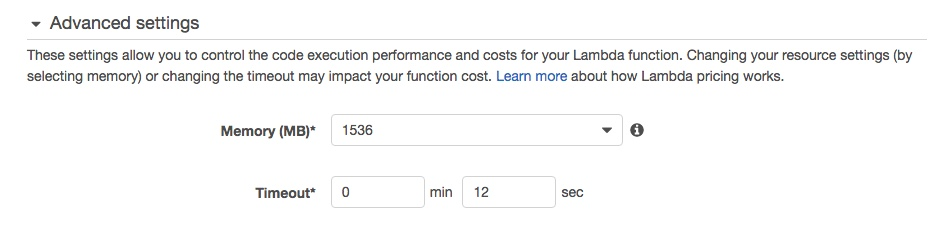
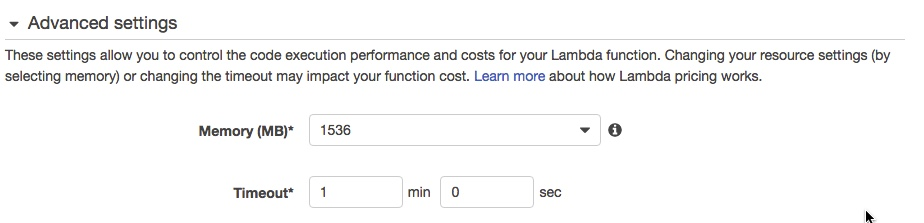
readme

diff --git a/README.md b/README.md
@@ -122,11 +122,11 @@ These instructions are modified from  tartan_guru's Google Assiatnt skill (https
 
 ![alt text](screenshots/existing_role.jpeg)
 
-12. Under Advanced Settings set Memory (MB) to 1536 and change the Timeout to 12 seconds
+12. Under Advanced Settings set Memory (MB) to 1536 and change the Timeout to 1 minute 0 seconds
 
 ![alt text](screenshots/advanced_settings.jpeg)
 
-13. Click on the blue "Next" at the bottom of the page and review the settings then click "Create Function". This will upload the Archive.zip file to Lambda. This may take a number of minutes depending on your connection speed. **NOTE - If the creation process takes more than five minutes or produces an error similar to "Signature expired: 20170612T135832Z is now earlier than 20170612T142721Z (20170612T143221Z - 5 min.)" then this is due to having a slow internet upload speed.  You'll need to upload the zip file via S3 instead. Go here:- https://console.aws.amazon.com/s3/home. Create a bucket - call it whatever you want. You can then upload the index.zip to that S3 bucket. Once it's uploaded use the "Upload a file from S3" rather than the "Upload a zip " option in the lambda setup.**
+13. Click on the blue "Next" at the bottom of the page and review the settings then click "Create Function". This will upload the index.zip file to Lambda. This may take a number of minutes depending on your connection speed. **NOTE - If the creation process takes more than five minutes or produces an error similar to "Signature expired: 20170612T135832Z is now earlier than 20170612T142721Z (20170612T143221Z - 5 min.)" then this is due to having a slow internet upload speed.  You'll need to upload the zip file via S3 instead. Go here:- https://console.aws.amazon.com/s3/home. Create a bucket - call it whatever you want. You can then upload the index.zip to that S3 bucket. Once it's uploaded use the "Upload a file from S3" rather than the "Upload a zip " option in the lambda setup.Delete the zip file from S3 once you have finished with it to avoid S3 charges**
 
 ![alt text](screenshots/review_function.jpeg)
 
